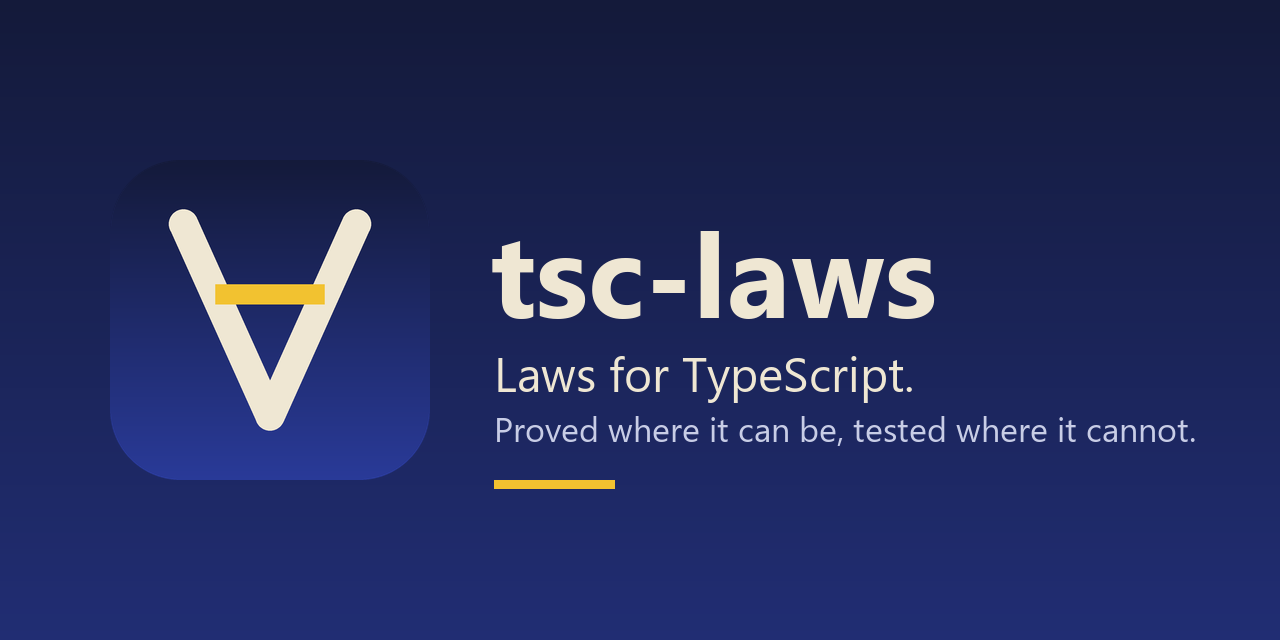
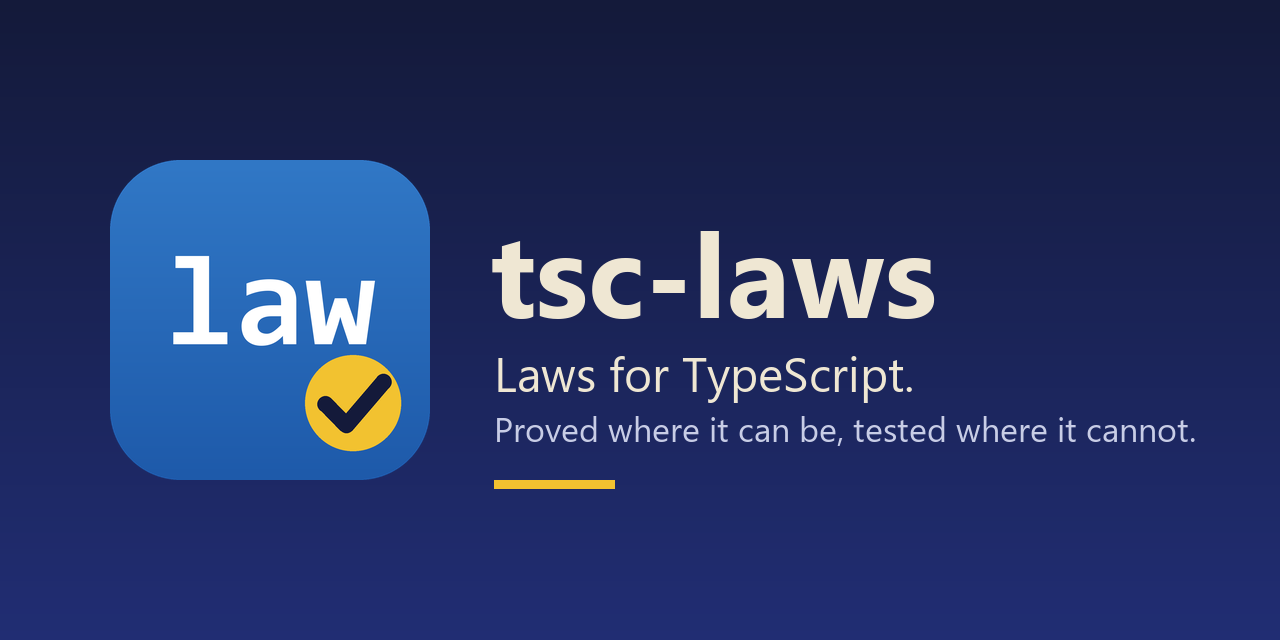
docs: use the law-with-a-tick mark, and show it in the README

Changed region(s): [[0.0625, 0.25, 0.3438, 0.75]]

diff --git a/scripts/brand/make-icons.py b/scripts/brand/make-icons.py
@@ -1,7 +1,8 @@
 """Draws the tsc-laws mark and writes every icon size the stores and the repository need.
 
-The mark is a universal quantifier (an upside-down A) on a navy rounded square, with a yellow dot at its apex: a law holds
-for every input. Everything is drawn with supersampling, so the edges are clean at any size.
+The mark is the word 'law' in a monospace face on TypeScript blue, with a yellow tick badge: code that is checked.
+Everything is drawn with supersampling, so the edges are clean at any size. It needs a bold monospace font (Consolas,
+Cascadia Code, DejaVu Sans Mono or Liberation Mono).
 
     python -I scripts/brand/make-icons.py
 
@@ -23,46 +24,52 @@ NAVY = (20, 26, 58)
 BLUE = (44, 62, 163)
 CREAM = (239, 231, 211)
 YELLOW = (242, 194, 48)
+WHITE = (255, 255, 255)
+TS_TOP = (49, 120, 198)
+TS_BOTTOM = (30, 90, 170)
 SS = 4  # supersampling
 
 
+def _font(size):
+    for name in ('consolab.ttf', 'CascadiaCode.ttf', 'DejaVuSansMono-Bold.ttf', 'LiberationMono-Bold.ttf'):
+        try:
+            return ImageFont.truetype(name, size)
+        except OSError:
+            continue
+    raise SystemExit('no bold monospace font found: install DejaVu Sans Mono or Liberation Mono')
+
+
 def mark(size):
-    """The square mark at `size` pixels."""
+    """The square mark at `size` pixels: the word 'law' on TypeScript blue, with a yellow tick badge."""
     s = size * SS
-    image = Image.new('RGBA', (s, s), (0, 0, 0, 0))
-    draw = ImageDraw.Draw(image)
-    radius = int(s * 0.22)
-    # A vertical gradient from navy to blue, clipped to the rounded square.
     gradient = Image.new('RGBA', (s, s))
     gd = ImageDraw.Draw(gradient)
     for y in range(s):
         t = y / (s - 1)
-        gd.line([(0, y), (s, y)], fill=tuple(int(NAVY[i] + (BLUE[i] - NAVY[i]) * t * 0.9) for i in range(3)) + (255,))
+        gd.line([(0, y), (s, y)], fill=tuple(int(TS_TOP[i] + (TS_BOTTOM[i] - TS_TOP[i]) * t) for i in range(3)) + (255,))
     mask = Image.new('L', (s, s), 0)
-    ImageDraw.Draw(mask).rounded_rectangle([0, 0, s - 1, s - 1], radius=radius, fill=255)
+    ImageDraw.Draw(mask).rounded_rectangle([0, 0, s - 1, s - 1], radius=int(s * 0.22), fill=255)
+    image = Image.new('RGBA', (s, s), (0, 0, 0, 0))
     image.paste(gradient, (0, 0), mask)
-
-    # The quantifier: two cream legs meeting at the bottom and a yellow crossbar, with round caps.
-    stroke = int(s * 0.092)
-    apex = (s * 0.5, s * 0.8)
-    left = (s * 0.23, s * 0.2)
-    right = (s * 0.77, s * 0.2)
-    draw.line([left, apex], fill=CREAM, width=stroke, joint='curve')
-    draw.line([right, apex], fill=CREAM, width=stroke, joint='curve')
-    for x, y in (left, right, apex):
-        draw.ellipse([x - stroke / 2, y - stroke / 2, x + stroke / 2, y + stroke / 2], fill=CREAM)
-    bar_y = s * 0.42
-    t = (bar_y - left[1]) / (apex[1] - left[1])
-    bl = (left[0] + (apex[0] - left[0]) * t, bar_y)
-    br = (right[0] + (apex[0] - right[0]) * t, bar_y)
-    draw.line([bl, br], fill=YELLOW, width=int(stroke * 0.7))
+    draw = ImageDraw.Draw(image)
+    font = _font(int(s * 0.4))
+    box = draw.textbbox((0, 0), 'law', font=font)
+    draw.text((s * 0.5 - (box[2] - box[0]) / 2 - box[0], s * 0.44 - (box[3] - box[1]) / 2 - box[1]), 'law', font=font, fill=WHITE)
+    # The badge: a yellow disc with a navy tick, bottom right.
+    cx, cy, r = s * 0.76, s * 0.76, s * 0.15
+    draw.ellipse([cx - r, cy - r, cx + r, cy + r], fill=YELLOW)
+    points = [(cx - r * 0.575, cy + r * 0.02), (cx - r * 0.14, cy + r * 0.46), (cx + r * 0.63, cy - r * 0.44)]
+    width = int(r * 0.34)
+    draw.line(points, fill=NAVY, width=width, joint='curve')
+    for x, y in (points[0], points[2]):
+        draw.ellipse([x - width / 2, y - width / 2, x + width / 2, y + width / 2], fill=NAVY)
     return image.resize((size, size), Image.LANCZOS)
 
 
 def social():
     """1280x640 repository preview: the mark, the name and the one-line promise."""
     w, h = 1280, 640
-    image = Image.new('RGB', (w, h), NAVY)
+    image = Image.new('RGB', (w, h), NAVY)  # navy to blue, so the TypeScript-blue mark stands out
     draw = ImageDraw.Draw(image)
     for y in range(h):
         t = y / (h - 1)
@@ -88,15 +95,14 @@ def social():
 SVG = """<svg xmlns="http://www.w3.org/2000/svg" viewBox="0 0 1024 1024" role="img" aria-label="tsc-laws">
   <defs>
     <linearGradient id="g" x1="0" y1="0" x2="0" y2="1">
-      <stop offset="0" stop-color="#141a3a"/>
-      <stop offset="1" stop-color="#2c3ea3" stop-opacity="0.9"/>
+      <stop offset="0" stop-color="#3178c6"/>
+      <stop offset="1" stop-color="#1e5aaa"/>
     </linearGradient>
   </defs>
   <rect width="1024" height="1024" rx="225" fill="url(#g)"/>
-  <g stroke-linecap="round" stroke-linejoin="round" fill="none">
-    <path d="M236 205 L512 819 L788 205" stroke="#efe7d3" stroke-width="94"/>
-    <path d="M395 430 H629" stroke="#f2c230" stroke-width="66"/>
-  </g>
+  <text x="512" y="520" text-anchor="middle" font-family="Consolas, 'Cascadia Code', 'DejaVu Sans Mono', monospace" font-weight="700" font-size="410" fill="#ffffff">law</text>
+  <circle cx="778" cy="778" r="154" fill="#f2c230"/>
+  <path d="M690 780 L735 826 L825 733" fill="none" stroke="#141a3a" stroke-width="52" stroke-linecap="round" stroke-linejoin="round"/>
 </svg>
 """
 

diff --git a/README.md b/README.md
@@ -1,5 +1,7 @@
 # tsc-laws
 
+<p align="center"><img src="docs/media/brand/logo-512.png" alt="tsc-laws" width="128" height="128"></p>
+
 **Laws for TypeScript, checked the way Bend 2 checks its laws, without leaving TypeScript.**
 
 A person writes `law` declarations. A coding agent writes the code. One command, `tslaws check`, says whether the code
